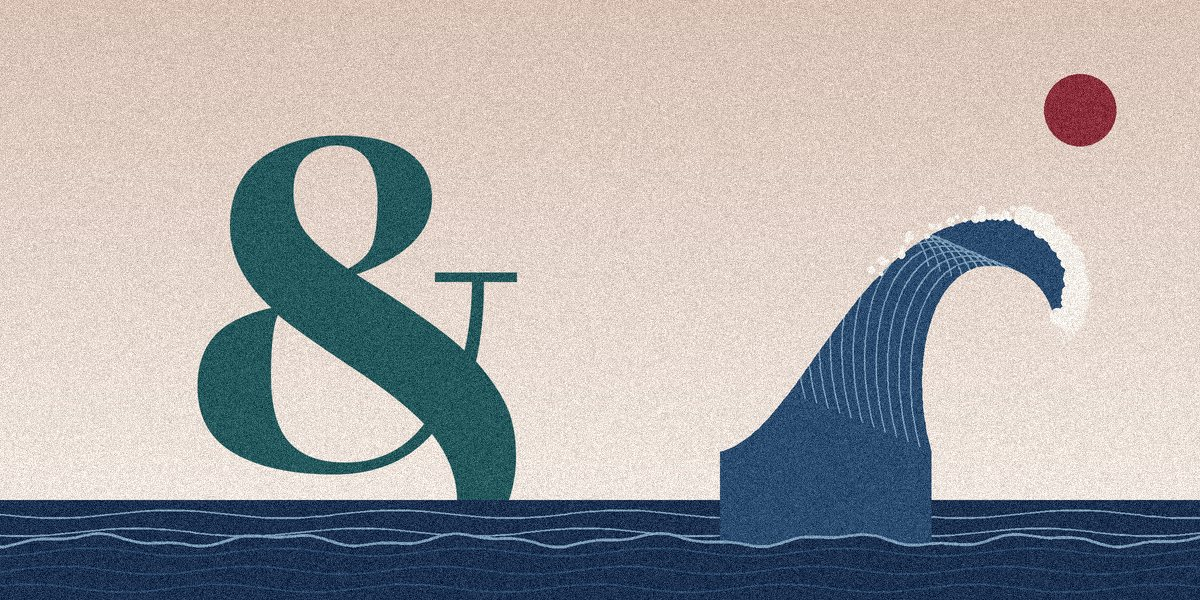
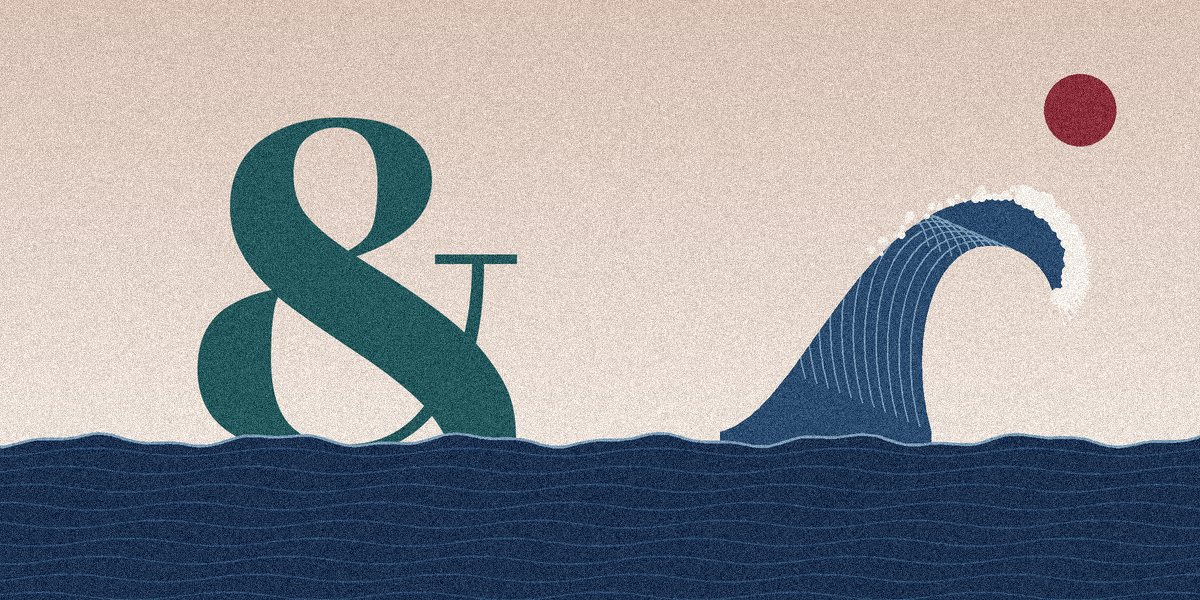
Fix the wave base in the Wednesday ampersand image
Claude-Session: https://claude.ai/code/session_01CPFfiZz4rjPwAdTY8Ptavd

diff --git a/art/wed/make.py b/art/wed/make.py
@@ -34,10 +34,10 @@ finish(im, OUT + 'wed_02.jpg', seed=32)
 # 03 & · Abril Fatface — a teal ampersand with a curling wave breaking through it
 im = canvas(c['clay'], c['paper'], 1)
 f = font('AbrilFatface', 470)
-text(im, (360, 470), '&', f, c['teal'], anchor='ms')
-sea(im, 500, c['indigo'], c['skyb'], gap=18)
-wave(im, 720, 170, 0.44, c['prussian'], c['skyb'], c['paper'], seed=81)
-front_sea(im, 540, c['indigo'], c['prussian'], foam=c['skyb'], seed=8)
+text(im, (360, 452), '&', f, c['teal'], anchor='ms')
+sea(im, 448, c['indigo'], c['skyb'], gap=18)
+wave(im, 720, 150, 0.44, c['prussian'], c['skyb'], c['paper'], seed=81)
+front_sea(im, 440, c['indigo'], c['prussian'], foam=c['skyb'], seed=8)
 disc(im, 1080, 110, 36, c['wine'])
 finish(im, OUT + 'wed_03.jpg', seed=33)
 
